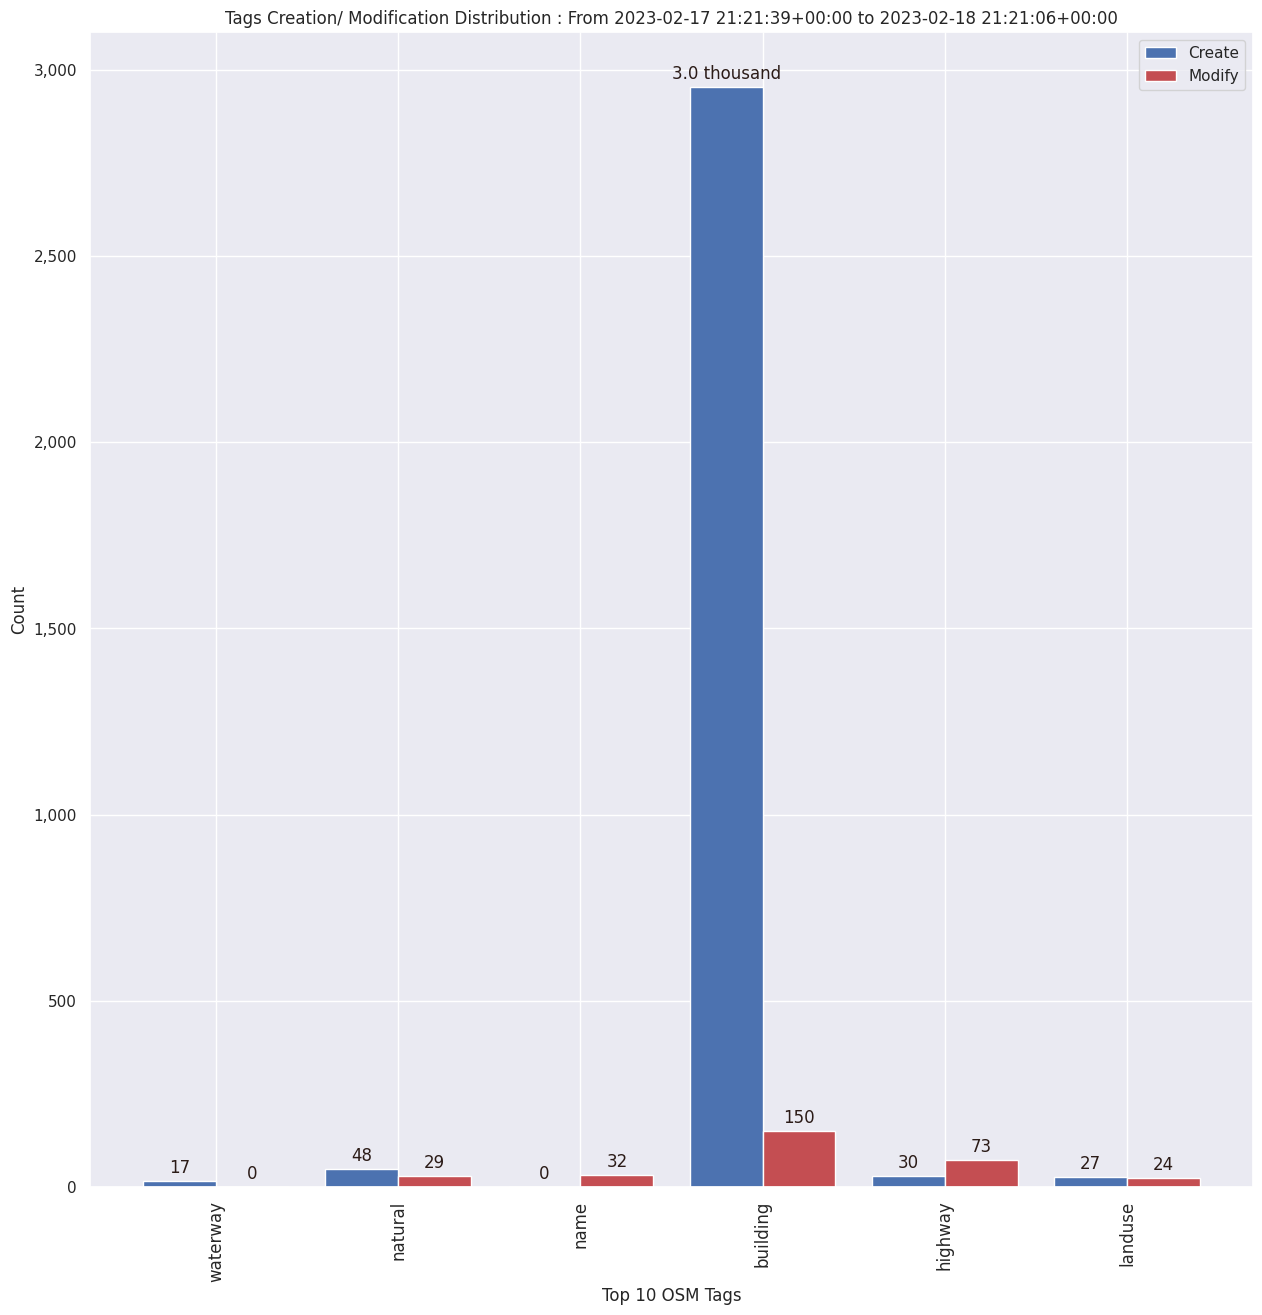
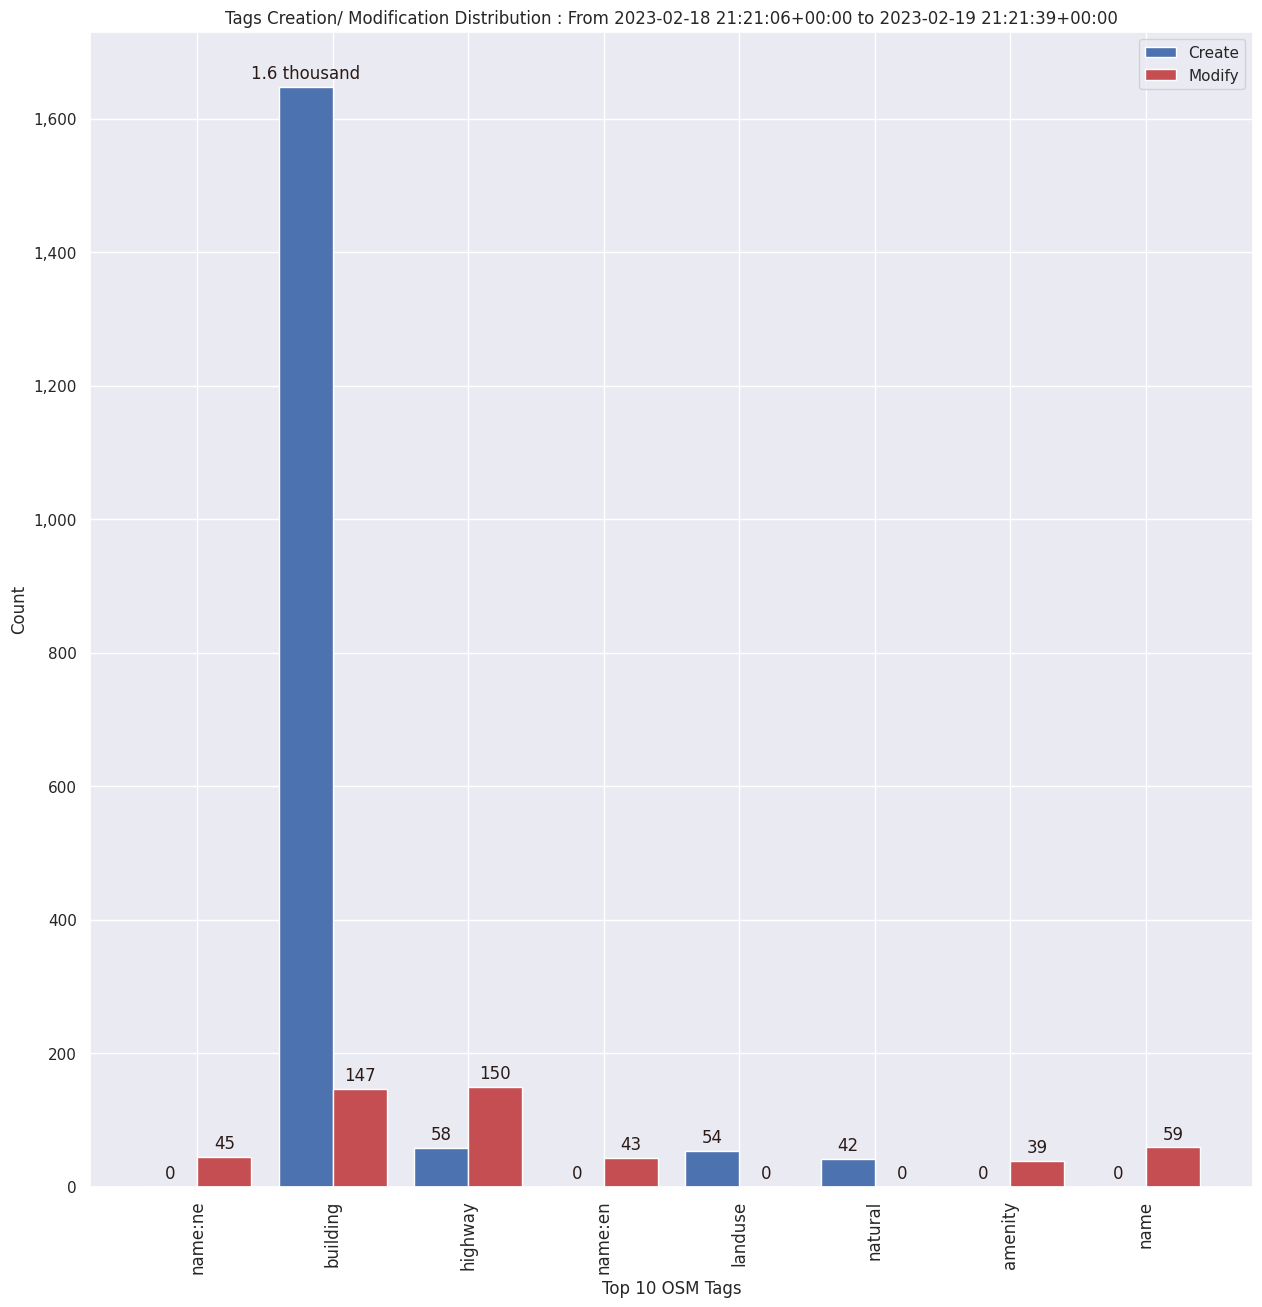
Updated Readme Daily Nepal

diff --git a/stats/Nepal/Daily/README.md b/stats/Nepal/Daily/README.md
@@ -1,10 +1,10 @@
 ### Last Update :
 
-### Stats From 2023-02-18 03:06:39+05:45 to 2023-02-19 03:06:06+05:45
+### Stats From 2023-02-19 03:06:06+05:45 to 2023-02-20 03:06:39+05:45
 
-36 Users made 150 changesets with 26.2 thousand map changes.
-- 22.7 thousand OSM Elements were Created,3.5 thousand Modified & 0 Deleted . Including 3.0 thousand buildings & 30 highways created. Nirmala Rawat tops table with 10.1 thousand changes
-- Top three trending hashtags for those stats are #digitalnepal : 12, #osmnepal : 12 & #nepgeom23 : 9
+25 Users made 128 changesets with 21.4 thousand map changes.
+- 15.2 thousand OSM Elements were Created,6.2 thousand Modified & 0 Deleted . Including 1.6 thousand buildings & 58 highways created. seichter tops table with 6.7 thousand changes
+- Top three trending hashtags for those stats are #osmnepal : 5, #digitalnepal : 3 & #hotosm-project-14284 : 2
 - 
 ![Alt text](./charts/osm_changes.png) 
 ![Alt text](./charts/users_per_hashtag.png) 
